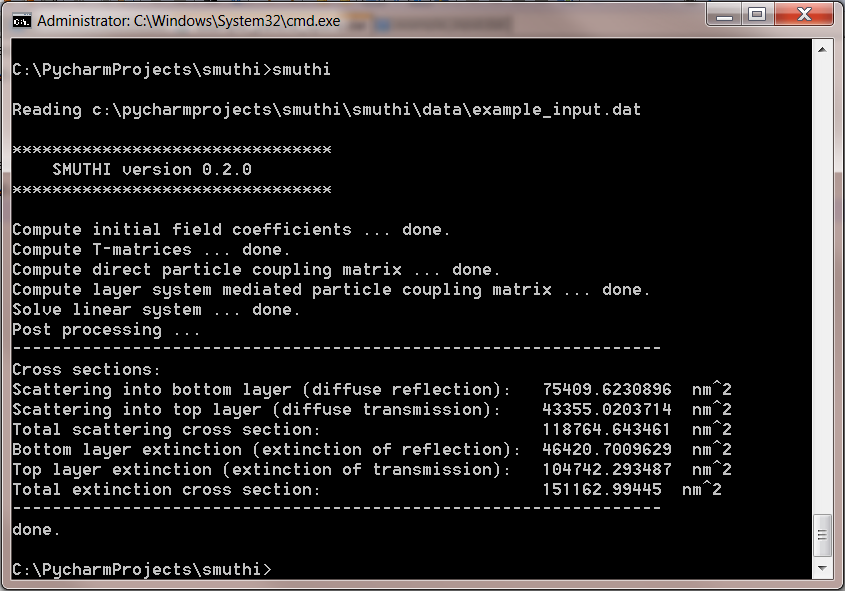
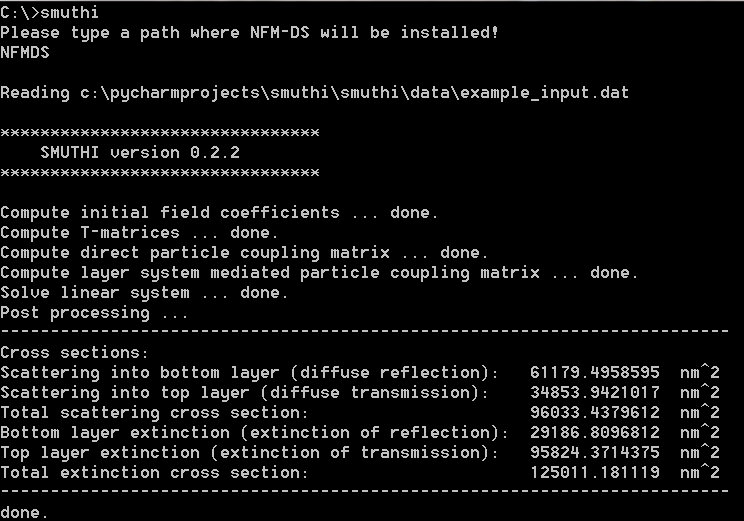
doc: update to version 2.2

Changed region(s): [[0.0, 0.0, 1.0, 1.0], [0.8038, 0.4914, 0.8656, 0.5528], [0.4637, 0.3685, 0.5255, 0.3992]]

diff --git a/docs/input_files.rst b/docs/input_files.rst
@@ -46,9 +46,25 @@ would specify a single film of thickness :math:`500`, consisting of a material w
 Scattering particles
 ---------------------
 
-The ensemble of scattering particles inside the layered medium. For spherical particles, specify 
+The ensemble of scattering particles inside the layered medium.
+
+For spherical particles, specify
 :code:`shape: sphere`, the radius, refractive index, extinction coefficient 
-and the :code:`[x, y, z]` coordinates of the particle position. 
+and the :code:`[x, y, z]` coordinates of the particle position.
+
+For spheroids, specify
+:code:`shape: spheroid`, the half axes along (`half axis c`) and transverse (`half axis a`) to the axis of revolution,
+refractive index, extinction coefficient and the :code:`[x, y, z]` coordinates of the particle position, as well as the
+Euler angles defining the rotation of the axis of revolution relative to the `z` axis (currently rotations other than
+`[0, 0, 0]` are not implemented).
+
+For finite cylinders, specify
+:code:`shape: finite cylinder`, the cylinder height, cylinder radius, refractive index, extinction coefficient and the
+:code:`[x, y, z]` coordinates of the particle position, as well as the
+Euler angles defining the rotation of the axis of revolution relative to the `z` axis (currently rotations other than
+`[0, 0, 0]` are not implemented).
+
+
 The coordinate system is such that the interface between the first two layers defines the plane :math:`z=0`.
 
 The parameters can be listed directly in the input file, in the following format::
@@ -57,13 +73,22 @@ The parameters can be listed directly in the input file, in the following format
    - shape: sphere
      radius: 100
      refractive index: 2.4
+     extinction coefficient: 0.05
+     position: [0, 100, 150]
+   - shape: finite cylinder
+     cylinder radius: 120
+     cylinder height: 150
+     refractive index: 2.7
      extinction coefficient: 0
-     position: [220, 110, 250]
-   - shape: sphere
-     radius: 200
-     refractive index: 2.1
-     extinction coefficient: 0.01
-     position: [-300, -200, 750]
+     position: [250, -100, 250]
+     euler angles: [0, 0, 0]
+   - shape: spheroid
+     semi axis c: 80
+     semi axis a: 140
+     refractive index: 2.5
+     extinction coefficient: 0.05
+     position: [-250, 0, 350]
+     euler angles: [0, 0, 0]
 
 Alternatively, the scattering particles can be specified in a separate file, which needs to be located in the SMUTHI project folder. 
 This is more convenient for large particle numbers. 
@@ -172,15 +197,19 @@ The particle specifications file
 The file containing the particle specifications needs to be written in the following format::
 
    # spheres
-   # x         y           z           radius      ref. idx.   exct. coeff.
-   220         110         250         100         2.4         0
-   -300        -200        750         200         2.1         0.01
-   ...         ...         ...         ...         ...         ...
-   
+   # x, y, z, radius, refractive index, exctinction coefficient
+   0	    100		150		100		2.4		0.05
+   ...      ...     ...     ...     ...     ...
+
+   # cylinders
+   # x, y, z, cylinder radius, cylinder height, refractive index, exctinction coefficient
+   250      -100    250	    120     150     2.7     0
+   ...      ...     ...     ...     ...     ...     ...
+
    # spheroids
    # x, y, z, semi-axis c, semi-axis a, refractive index, exctinction coefficient
-   -250	       0           350		   80          140         2.5       0.05
-   ...         ...         ...         ...         ...         ...       ...
+   -250	    0       350	    80      140     2.5     0.05
+   ...      ...     ...     ...     ...     ...     ...
 
 An examplary particle specifiacations can be downloaded from
 :download:`here <../smuthi/data/example_particle_specs.dat>`.

diff --git a/docs/index.rst b/docs/index.rst
@@ -22,9 +22,14 @@ and on the scattering-matrix method for the propagation through the layered medi
 SMUTHI ...
 
  - ... exactly solves Maxwell's equations (3D wave optics) in frequency domain (one wavelength per simulation).
- - ... allows for the simulation of an arbitrary number of spheres and spheroids. For spheres, the T-matrix is given by the Mie-coefficients. For
-   spheroids, SMUTHI calls the `NFM-DS <https://scattport.org/index.php/programs-menu/t-matrix-codes-menu/239-nfm-ds>`_,
-   a Fortran software package written by A. Doicu, T. Wriedt and Y. Eremin, based on the "Null-field method with
+ - ... considers multiple scattering. This includes direct particle coupling as well as indirect particle coupling,
+   mediated through reflections at the planar layer interfaces.
+ - ... allows for the simulation of an arbitrary number of spheres, spheroids and finite cylinders. For spheres, the
+   T-matrix is given by the Mie-coefficients.
+   For spheroids and finite cylinders, SMUTHI calls the
+   `NFM-DS <https://scattport.org/index.php/programs-menu/t-matrix-codes-menu/239-nfm-ds>`_,
+   to compute the single particle T-matrix.
+   This is a Fortran software package written by A. Doicu, T. Wriedt and Y. Eremin, based on the "Null-field method with
    discrete sources".
  - ... returns the total and differential scattering cross section as well as the extinction cross section.
    The difference between scattering and extinction cross section refers to absorption (and incoupling to waveguide
